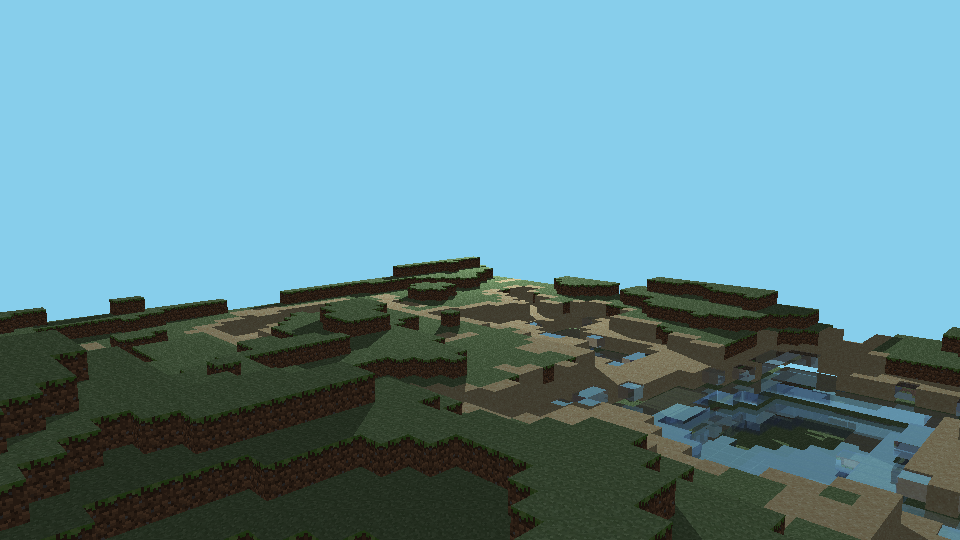
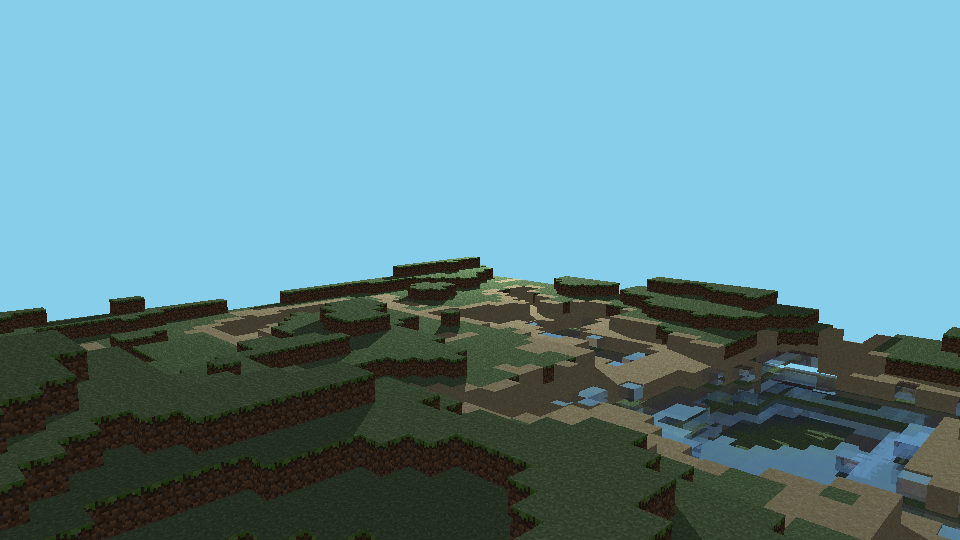
fix(water): removed refraction from the water. and allowed water to not always have reflections

Changed region(s): [[0.6875, 0.6815, 0.9688, 0.8889], [0.9375, 0.9185, 0.9688, 0.9778]]

diff --git a/src/camera.cpp b/src/camera.cpp
@@ -363,16 +363,19 @@ namespace isim
               std::clamp(static_cast<float>(
                            -ray.direction.dotProduct(normal_at_collision)),
                          0.0f, 1.0f);
-            const float k =
-              1.0f - eta * eta * (1.0f - cos_theta_i * cos_theta_i);
+            // const float k =
+            //   1.0f - eta * eta * (1.0f - cos_theta_i * cos_theta_i);
 
-            Vector3 refract_dir(-1.0f, -1.0f, -1.0f, true);
-            if (k >= 0.0f)
-              {
-                refract_dir =
-                  (ray.direction * eta
-                   + normal_at_collision * (eta * cos_theta_i - std::sqrt(k)));
-              }
+            // Vector3 refract_dir(-1.0f, -1.0f, -1.0f, true);
+            // if (k >= 0.0f)
+            //   {
+            //     refract_dir =
+            //       (ray.direction * eta
+            //        + normal_at_collision * (eta * cos_theta_i - std::sqrt(k)));
+            //   }
+
+            // in minecraft water is not really refractive, it's more like a transparent material
+            Vector3 refract_dir = ray.direction;
 
             Color refracted_color = pixel_color;
             bool has_refracted_color = false;

diff --git a/src/terrain/terrain_generator.cpp b/src/terrain/terrain_generator.cpp
@@ -1,17 +1,21 @@
 #include "terrain_generator.hh"
 
 #include <cmath>
+#include <iostream>
 #include "objects/minecraft.hh"
 #include "objects/object.hh"
 
 namespace isim
 {
-  TerrainGenerator::TerrainGenerator()
+  TerrainGenerator::TerrainGenerator(bool enable_water_reflection)
     : perlin_()
+    , enable_reflection(enable_water_reflection)
   {}
 
-  TerrainGenerator::TerrainGenerator(unsigned int seed)
+  TerrainGenerator::TerrainGenerator(unsigned int seed,
+                                     bool enable_water_reflection)
     : perlin_(seed)
+    , enable_reflection(enable_water_reflection)
   {}
 
   double TerrainGenerator::fbm(double x,
@@ -67,7 +71,7 @@ namespace isim
 
             if (value < 0.40)
               {
-                out.push_back(Block::new_water(pos));
+                out.push_back(Block::new_water(pos, 1, 1, enable_reflection));
               }
             else if (value < 0.45)
               {

diff --git a/test.cpp b/test.cpp
@@ -9,8 +9,8 @@ int main()
 {
   std::cout << "Rendering scene..." << std::endl;
 
-  // isim::Scene* scene = isim::minecraft_terrain_scene(50, 50, 0.03);
-  isim::Scene* scene = isim::water_test();
+  isim::Scene* scene = isim::minecraft_terrain_scene(50, 50, 0.03);
+  // isim::Scene* scene = isim::water_lake_scene();
 
   std::cout << "Scene rendered, saving image..." << std::endl;
 
@@ -19,7 +19,7 @@ int main()
 
   for (size_t i = 0; i < image.size(); i++)
     {
-      std::string filename = "water-test.png";
+      std::string filename = "minecraft.png";
       image[i].save(filename.c_str());
       std::cout << "Scene rendered and saved to " << filename << std::endl;
     }

diff --git a/src/scenes/scenes.cpp b/src/scenes/scenes.cpp
@@ -271,7 +271,7 @@ namespace isim
   Scene*
   minecraft_terrain_scene(int width, int depth, double scale, int max_height)
   {
-    TerrainGenerator terrain(42);
+    TerrainGenerator terrain(42, true);
 
     static std::vector<const Object*> blocks =
       terrain.generate(width, depth, scale, max_height);
